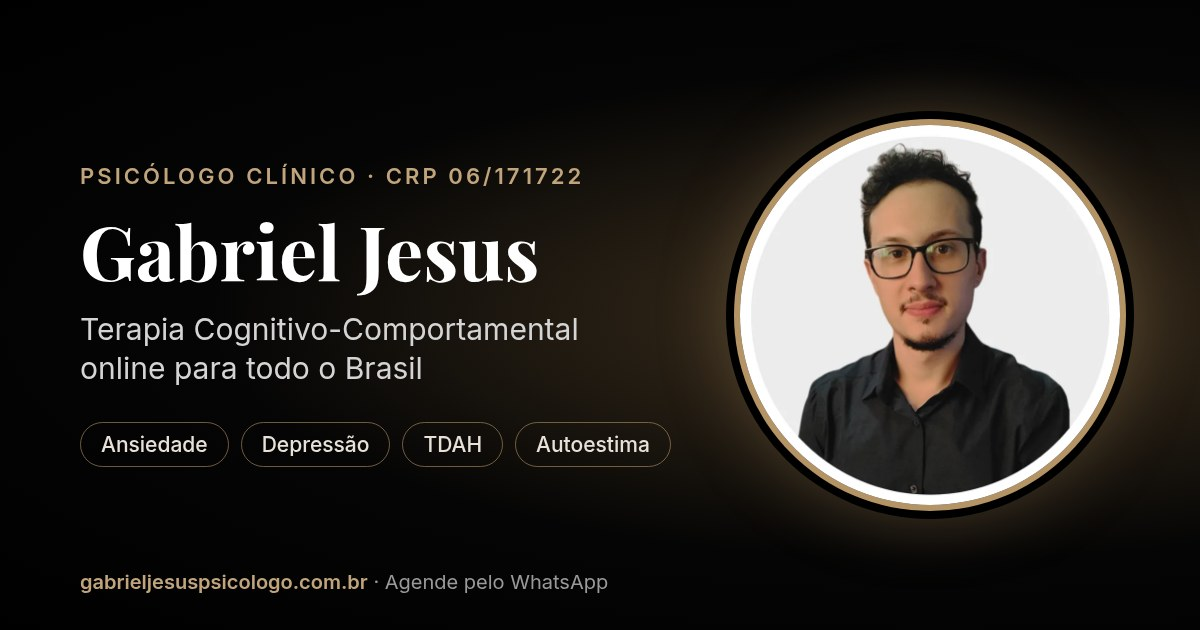
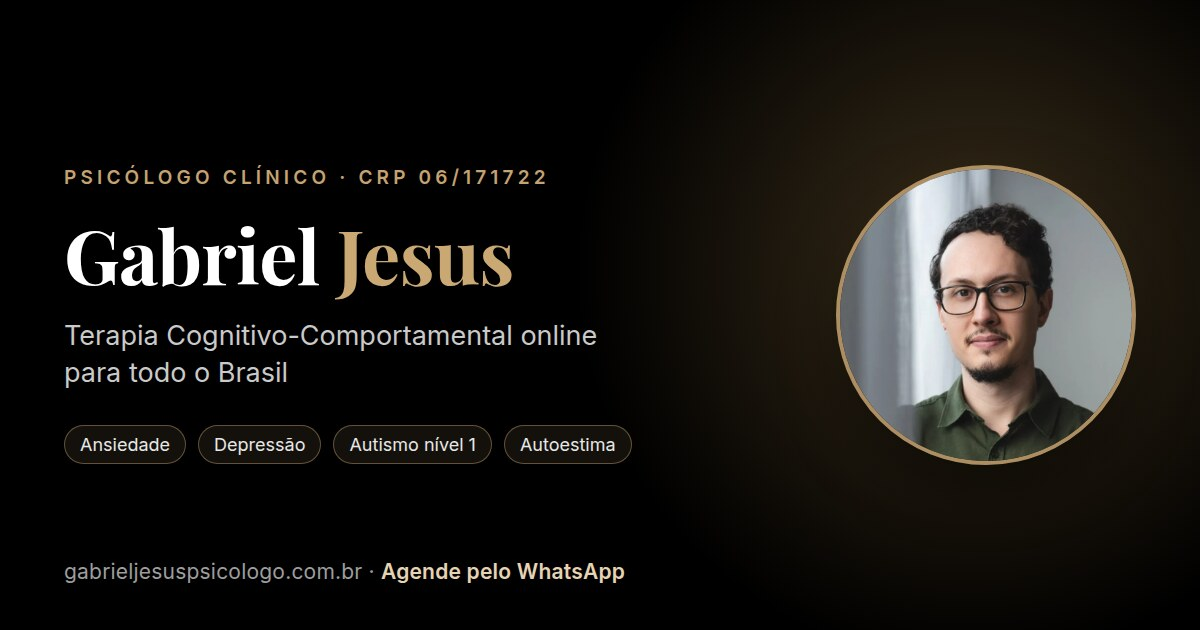
Conteúdo do site: novas listas, texto de abertura, 95+ atendimentos e aviso do CVV (#1)
* Conteúdo: novas listas de atuação/demandas, texto de abertura, 95+ atendimentos e aviso do CVV

- Sobre: 'Bem vindo (a)!' com o texto novo; 'Atuação e Formações' substitui a
  lista de formação acadêmica; demandas atendidas atualizadas.
- Hero: 95+ atendimentos realizados.
- Contato: aviso de crise suicida em destaque e itálico, antes das frases.
- SEO/llms.txt/manifest/humans: TDAH sai, autismo nível 1 e PBE entram.

* SEO: data de atualização nos arquivos llms.txt e humans.txt

* Fotos: novas imagens profissionais em Hero, Sobre, Terapia Online e Contato

- Hero passa a usar o retrato de camisa verde, recortado em quadrado para o círculo.
- Sobre ganha retrato lateral (foto de preto, mão no queixo) junto ao texto de abertura.
- Terapia Online troca a foto da mesa por Gabriel atendendo no consultório (sem os filtros de cor).
- Contato ganha retrato (foto de preto na poltrona) ao lado do CTA do WhatsApp.
- Remove ambiente-atendimento.webp e gabriel.webp antigos; og-image.jpg refeita com a nova foto de perfil.

* Sobre: colunas da lista alinhadas com largura proporcional

A lista de Atuação e Formações tem 7 itens longos e ficava visivelmente mais
alta que a de Demandas atendidas. A coluna ganha mais largura no desktop (1.5fr
vs 1fr) para reduzir as quebras de linha, e o espaçamento entre itens passa a
ser enxuto, deixando as duas listas com a mesma altura.

Changed region(s): [[0.0308, 0.1508, 0.9867, 0.8143], [0.0308, 0.8746, 0.5242, 0.9349], [0.0308, 0.2413, 0.4933, 0.3016]]

diff --git a/inertia/components/AboutSection.tsx b/inertia/components/AboutSection.tsx
@@ -1,5 +1,27 @@
 import { AnimatedSection } from "./AnimatedSection";
-import { anosDeAtuacao } from "@/lib/experiencia";
+import retratoSobre from "@/assets/gabriel-sobre.webp";
+
+// Atuação e formações na ordem pedida pelo Gabriel. "Formação Acadêmica"
+// aparece como item de destaque no meio da lista (e não como título de outro
+// bloco), então a lista é uma só, sem subdivisões.
+const atuacoesEFormacoes = [
+  "Psicoterapia",
+  "Terapia Cognitivo-Comportamental",
+  "Tomada de decisão via paradigma da PBE",
+  "Formação Acadêmica",
+  "Cursos de formação em PBE",
+  "1ª turma de Especialização no InPBE",
+  "Formação em psicoterapia para Autismo nível 1 de suporte",
+];
+
+const demandasAtendidas = [
+  "Transtornos de Ansiedade",
+  "Transtornos Depressivos",
+  "Autismo nível 1 de suporte",
+  "Procrastinação",
+  "Autocobrança",
+  "Autoestima",
+];
 
 export function AboutSection() {
   return (
@@ -18,28 +40,55 @@ export function AboutSection() {
           <AnimatedSection animation="scale-in">
             <div className="bg-card rounded-2xl p-8 lg:p-12 shadow-card hover:shadow-hover transition-all duration-300">
               <div className="prose prose-lg max-w-none">
-                <div className="space-y-6 text-card-foreground">
-                  <p className="text-lg leading-relaxed">
-                    <strong className="text-primary">Bem-vindo(a)!</strong> Me
-                    chamo Gabriel. Sou psicólogo clínico, com {anosDeAtuacao()} anos de
-                    atuação,
-                    com experiência em demandas variadas, e dedicado a ajudar
-                    pessoas a ganharem real independência sobre sua saúde
-                    mental.
-                  </p>
+                <div className="text-card-foreground">
+                  {/* Retrato ao lado do texto de abertura; no mobile a foto vem
+                      primeiro, para a apresentação começar pelo rosto. */}
+                  <div className="grid gap-8 lg:grid-cols-[minmax(0,19rem)_1fr] lg:gap-12 lg:items-center">
+                    <div className="relative mx-auto w-full max-w-[15rem] sm:max-w-[17rem] lg:max-w-none">
+                      <div
+                        aria-hidden
+                        className="absolute -inset-2 rounded-2xl bg-primary/20 blur-xl"
+                      />
+                      <img
+                        src={retratoSobre}
+                        alt="Gabriel, psicólogo clínico, com a mão no queixo, em fundo escuro"
+                        width={900}
+                        height={1125}
+                        className="relative w-full aspect-[4/5] object-cover rounded-2xl shadow-card ring-1 ring-primary/30"
+                        loading="lazy"
+                      />
+                    </div>
 
-                  <div className="grid md:grid-cols-2 gap-8 mt-8">
+                    <p className="text-lg leading-relaxed text-center lg:text-left">
+                      <strong className="text-primary">Bem vindo (a)!</strong>{" "}
+                      Meu nome é Gabriel. Sou psicólogo clínico. No tratamento,
+                      eu espero te ajudar a ganhar real independência sobre a
+                      sua saúde mental, sejam os seus problemas envolvendo
+                      diferentes transtornos, mas também dificuldades da vida que
+                      te abalam de alguma forma. Quero realmente que você viva
+                      uma vida que sente que vale à pena, apesar do desconforto
+                      que aparecer.
+                    </p>
+                  </div>
+
+                  {/* A lista de atuação tem itens longos e é mais alta que a de
+                      demandas; por isso ela ganha mais largura no desktop (menos
+                      quebras de linha) e o espaçamento entre itens é enxuto,
+                      para as duas colunas terminarem na mesma altura. */}
+                  <div className="grid gap-x-10 gap-y-8 mt-10 sm:grid-cols-2 lg:grid-cols-[1.5fr_1fr]">
                     <div>
                       <h3 className="text-xl font-semibold text-primary mb-4">
-                        Formação Acadêmica
+                        Atuação e Formações
                       </h3>
-                      <ul className="space-y-2 text-muted-foreground">
-                        <li>
-                          • Graduação em Psicologia – Universidade Federal de
-                          São Paulo
-                        </li>
-                        <li>• Atuação com Terapia Cognitivo-Comportamental</li>
-                        <li>• Formações em Prática Baseada em Evidências</li>
+                      <ul className="space-y-1.5 text-[0.95rem] leading-snug text-muted-foreground">
+                        {atuacoesEFormacoes.map((item) => (
+                          <li key={item} className="flex gap-2">
+                            <span aria-hidden className="text-primary/70">
+                              •
+                            </span>
+                            <span>{item}</span>
+                          </li>
+                        ))}
                       </ul>
                     </div>
 
@@ -47,18 +96,20 @@ export function AboutSection() {
                       <h3 className="text-xl font-semibold text-primary mb-4">
                         Demandas atendidas
                       </h3>
-                      <ul className="space-y-2 text-muted-foreground">
-                        <li>• Transtornos de Ansiedade</li>
-                        <li>• Transtornos Depressivos</li>
-                        <li>• TDAH</li>
-                        <li>• Conflitos Amorosos</li>
-                        <li>• Desenvolvimento Pessoal</li>
-                        <li>• Autoestima</li>
+                      <ul className="space-y-1.5 text-[0.95rem] leading-snug text-muted-foreground">
+                        {demandasAtendidas.map((item) => (
+                          <li key={item} className="flex gap-2">
+                            <span aria-hidden className="text-primary/70">
+                              •
+                            </span>
+                            <span>{item}</span>
+                          </li>
+                        ))}
                       </ul>
                     </div>
                   </div>
 
-                  <div className="mt-8 p-6 bg-background-subtle rounded-lg border border-primary/20">
+                  <div className="mt-10 p-6 bg-background-subtle rounded-lg border border-primary/20">
                     <p className="text-center text-muted-foreground italic">
                       "Ter autonomia sobre sua saúde mental, não significa
                       deixar de viver experiências sofridas, mas saber que o

diff --git a/inertia/components/ContactSection.tsx b/inertia/components/ContactSection.tsx
@@ -2,6 +2,7 @@ import { Button } from "@/components/ui/button";
 import { MessageCircle, Phone, Globe, Clock, Lock } from "lucide-react";
 import { AnimatedSection } from "./AnimatedSection";
 import { WhatsAppLink } from "./WhatsAppLink";
+import retratoContato from "@/assets/gabriel-contato.webp";
 
 export function ContactSection() {
   const infos = [
@@ -18,6 +19,31 @@ export function ContactSection() {
             <h2 className="text-4xl lg:text-5xl font-serif font-bold text-foreground mb-6">
               Entre em Contato
             </h2>
+
+            {/* Aviso vem antes das frases de acolhimento e em destaque: quem
+                chega em crise precisa da informação sobre emergência na
+                primeira leitura, não no rodapé. */}
+            <div
+              role="note"
+              className="mx-auto mb-8 max-w-2xl rounded-xl border border-primary/40 bg-primary/10 px-6 py-5"
+            >
+              <p className="text-base sm:text-lg font-medium italic text-foreground leading-relaxed">
+                AVISO: Não é oferecido atendimento ou aconselhamento de
+                emergência para pessoas em situação de crise suicida. Se estiver
+                se sentindo nesse estado, ligue agora para 188 (CVV – Centro de
+                Valorização da Vida) ou acesse{" "}
+                <a
+                  href="https://www.cvv.org.br"
+                  target="_blank"
+                  rel="noopener noreferrer"
+                  className="underline underline-offset-4 hover:text-primary transition-colors"
+                >
+                  www.cvv.org.br
+                </a>
+                ;
+              </p>
+            </div>
+
             <p className="text-xl text-muted-foreground max-w-2xl mx-auto">
               O primeiro passo é uma mensagem. Me chame no WhatsApp e a gente
               combina o melhor horário para você.
@@ -26,28 +52,47 @@ export function ContactSection() {
         </AnimatedSection>
 
         <AnimatedSection animation="scale-in">
-          <div className="max-w-3xl mx-auto bg-card border border-border rounded-3xl p-8 sm:p-12 shadow-card text-center">
-            <div className="mx-auto mb-6 w-16 h-16 bg-green-700 rounded-full flex items-center justify-center shadow-lg">
-              <MessageCircle className="h-8 w-8 text-white" />
-            </div>
-            <h3 className="text-2xl sm:text-3xl font-serif font-bold text-card-foreground mb-3">
-              Agende pelo WhatsApp
-            </h3>
-            <p className="text-muted-foreground max-w-xl mx-auto mb-8">
-              Tire suas dúvidas, conheça como funciona o atendimento e marque
-              sua primeira sessão. Respondo rapidamente!
-            </p>
+          <div className="max-w-4xl mx-auto bg-card border border-border rounded-3xl p-8 sm:p-12 shadow-card">
+            <div className="grid gap-10 md:grid-cols-[minmax(0,17rem)_1fr] md:gap-12 md:items-center">
+              <div className="relative mx-auto w-full max-w-[15rem] md:max-w-none">
+                <div
+                  aria-hidden
+                  className="absolute -inset-2 rounded-2xl bg-primary/20 blur-xl"
+                />
+                <img
+                  src={retratoContato}
+                  alt="Gabriel, psicólogo clínico, sentado no consultório"
+                  width={900}
+                  height={1125}
+                  className="relative w-full aspect-[4/5] object-cover object-[50%_35%] rounded-2xl shadow-card ring-1 ring-primary/30"
+                  loading="lazy"
+                />
+              </div>
 
-            <Button
-              asChild
-              size="lg"
-              className="w-full sm:w-auto h-14 px-10 text-base bg-green-700 hover:bg-green-800 text-white shadow-lg hover:shadow-xl hover:scale-105 active:scale-95 transition-all duration-300 [&_svg]:size-5"
-            >
-              <WhatsAppLink origem="Contact Section">
-                <MessageCircle />
-                Conversar no WhatsApp
-              </WhatsAppLink>
-            </Button>
+              <div className="text-center md:text-left">
+                <div className="mx-auto md:mx-0 mb-6 w-16 h-16 bg-green-700 rounded-full flex items-center justify-center shadow-lg">
+                  <MessageCircle className="h-8 w-8 text-white" />
+                </div>
+                <h3 className="text-2xl sm:text-3xl font-serif font-bold text-card-foreground mb-3">
+                  Agende pelo WhatsApp
+                </h3>
+                <p className="text-muted-foreground max-w-xl md:mx-0 mx-auto mb-8">
+                  Tire suas dúvidas, conheça como funciona o atendimento e marque
+                  sua primeira sessão. Respondo rapidamente!
+                </p>
+
+                <Button
+                  asChild
+                  size="lg"
+                  className="w-full sm:w-auto h-14 px-10 text-base bg-green-700 hover:bg-green-800 text-white shadow-lg hover:shadow-xl hover:scale-105 active:scale-95 transition-all duration-300 [&_svg]:size-5"
+                >
+                  <WhatsAppLink origem="Contact Section">
+                    <MessageCircle />
+                    Conversar no WhatsApp
+                  </WhatsAppLink>
+                </Button>
+              </div>
+            </div>
 
             <ul className="mt-10 pt-8 border-t border-border grid gap-6 sm:grid-cols-3 text-left sm:text-center">
               {infos.map((info) => (

diff --git a/inertia/components/HeroSection.tsx b/inertia/components/HeroSection.tsx
@@ -5,7 +5,7 @@ import { rastrear } from "@/lib/analytics";
 import { WhatsAppLink } from "@/components/WhatsAppLink";
 import { anosDeAtuacao } from "@/lib/experiencia";
 
-import psychologistPhoto from "@/assets/gabriel.webp";
+import psychologistPhoto from "@/assets/gabriel-perfil.webp";
 
 export function HeroSection() {
   return (
@@ -71,9 +71,9 @@ export function HeroSection() {
 
             <div className="grid grid-cols-3 gap-4 sm:gap-8 pt-4 sm:pt-8 max-w-lg">
               <div className="text-center sm:text-left">
-                <p className="text-3xl font-bold text-primary">70+</p>
+                <p className="text-3xl font-bold text-primary">95+</p>
                 <p className="text-sm sm:text-base text-muted-foreground">
-                  Pacientes atendidos
+                  Atendimentos realizados
                 </p>
               </div>
               <div className="text-center sm:text-left">
@@ -102,9 +102,9 @@ export function HeroSection() {
               />
               <img
                 src={psychologistPhoto}
-                alt="Gabriel - Psicólogo clínico especialista em Terapia Cognitivo-Comportamental para ansiedade, depressão e TDAH"
-                width={384}
-                height={384}
+                alt="Gabriel, psicólogo clínico — Terapia Cognitivo-Comportamental online para ansiedade, depressão e autismo nível 1 de suporte"
+                width={800}
+                height={800}
                 className="relative w-44 h-44 sm:w-64 sm:h-64 lg:w-96 lg:h-96 object-cover rounded-full shadow-card ring-4 ring-primary/60 ring-offset-4 ring-offset-background"
                 loading="eager"
                 fetchPriority="high"

diff --git a/inertia/components/OnlineTherapySection.tsx b/inertia/components/OnlineTherapySection.tsx
@@ -1,6 +1,6 @@
 import { Clock, Shield, CreditCard, Video } from "lucide-react";
 import { AnimatedSection } from "./AnimatedSection";
-import onlineTherapyImage from "@/assets/ambiente-atendimento.webp";
+import onlineTherapyImage from "@/assets/gabriel-atendimento.webp";
 
 export const OnlineTherapySection = () => {
   const features = [
@@ -88,14 +88,10 @@ export const OnlineTherapySection = () => {
             <div className="relative group">
               <img
                 src={onlineTherapyImage}
-                alt="Ambiente de trabalho para terapia online - laptop e xícara em mesa de madeira"
-                width={735}
-                height={1028}
-                className="w-full max-h-80 lg:max-h-[560px] object-cover rounded-2xl shadow-hover"
-                style={{
-                  filter:
-                    "sepia(10%) saturate(120%) hue-rotate(340deg) brightness(95%) contrast(105%)",
-                }}
+                alt="Gabriel, psicólogo clínico, em seu consultório para atendimento online"
+                width={900}
+                height={1125}
+                className="w-full max-h-80 lg:max-h-[560px] object-cover object-[50%_28%] rounded-2xl shadow-hover"
                 loading="lazy"
               />
               {/* Overlay sutil para harmonizar com a paleta */}

diff --git a/inertia/lib/seo.ts b/inertia/lib/seo.ts
@@ -5,7 +5,7 @@ import { anosDeAtuacao } from "@/lib/experiencia";
 // "ansiedade") e cabem no corte do Google (~60 e ~155 caracteres).
 export const TITULO = "Psicólogo Online para Ansiedade e Depressão | Gabriel Jesus";
 export const DESCRICAO =
-  "Psicoterapia online com Gabriel Jesus, psicólogo clínico (CRP 06/171722) formado pela UNIFESP. TCC para ansiedade, depressão e TDAH. Agende pelo WhatsApp.";
+  "Psicoterapia online com Gabriel Jesus, psicólogo clínico (CRP 06/171722) formado pela UNIFESP. TCC para ansiedade, depressão e autismo nível 1 de suporte. Agende pelo WhatsApp.";
 
 export const contato = {
   telefone: "+55-13-98166-4867",
@@ -57,12 +57,14 @@ export function jsonLd(base: string) {
         },
         knowsAbout: [
           "Terapia Cognitivo-Comportamental",
+          "Psicoterapia",
+          "Prática Baseada em Evidências",
           "Ansiedade",
           "Depressão",
-          "TDAH",
+          "Autismo nível 1 de suporte",
+          "Procrastinação",
+          "Autocobrança",
           "Autoestima",
-          "Conflitos amorosos",
-          "Desenvolvimento pessoal",
         ],
         knowsLanguage: "pt-BR",
         sameAs: [contato.instagram, contato.linkedin],
